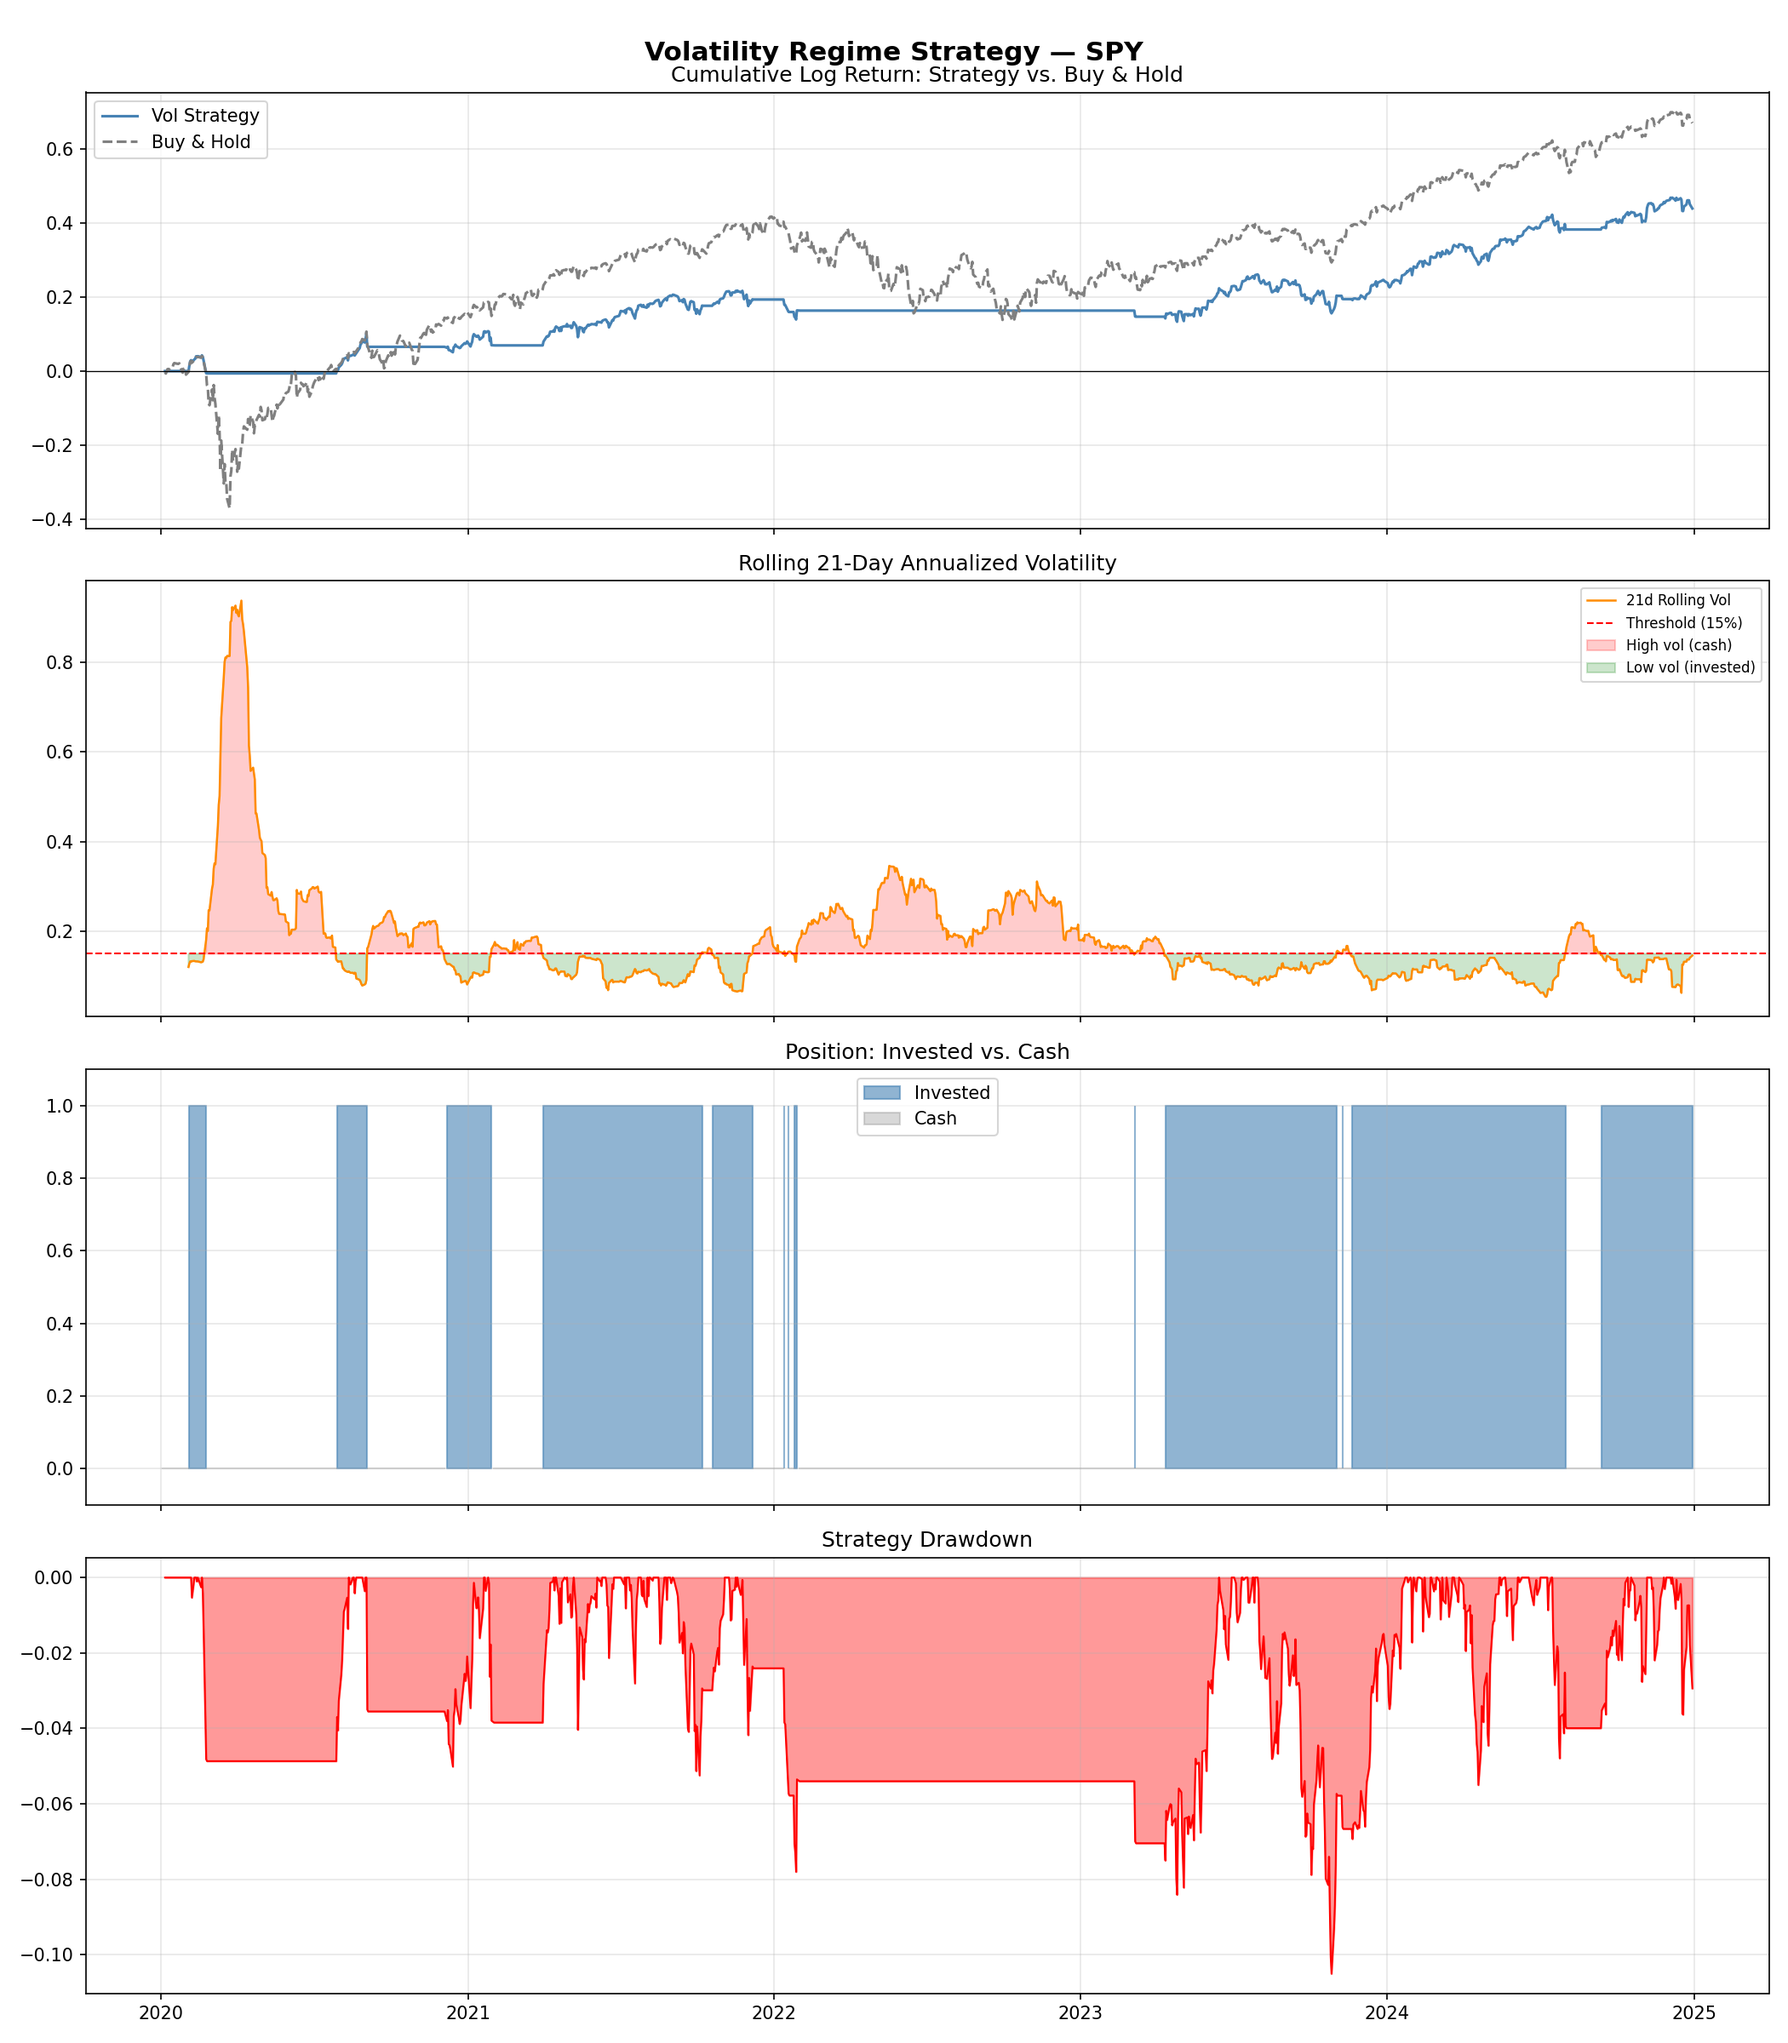
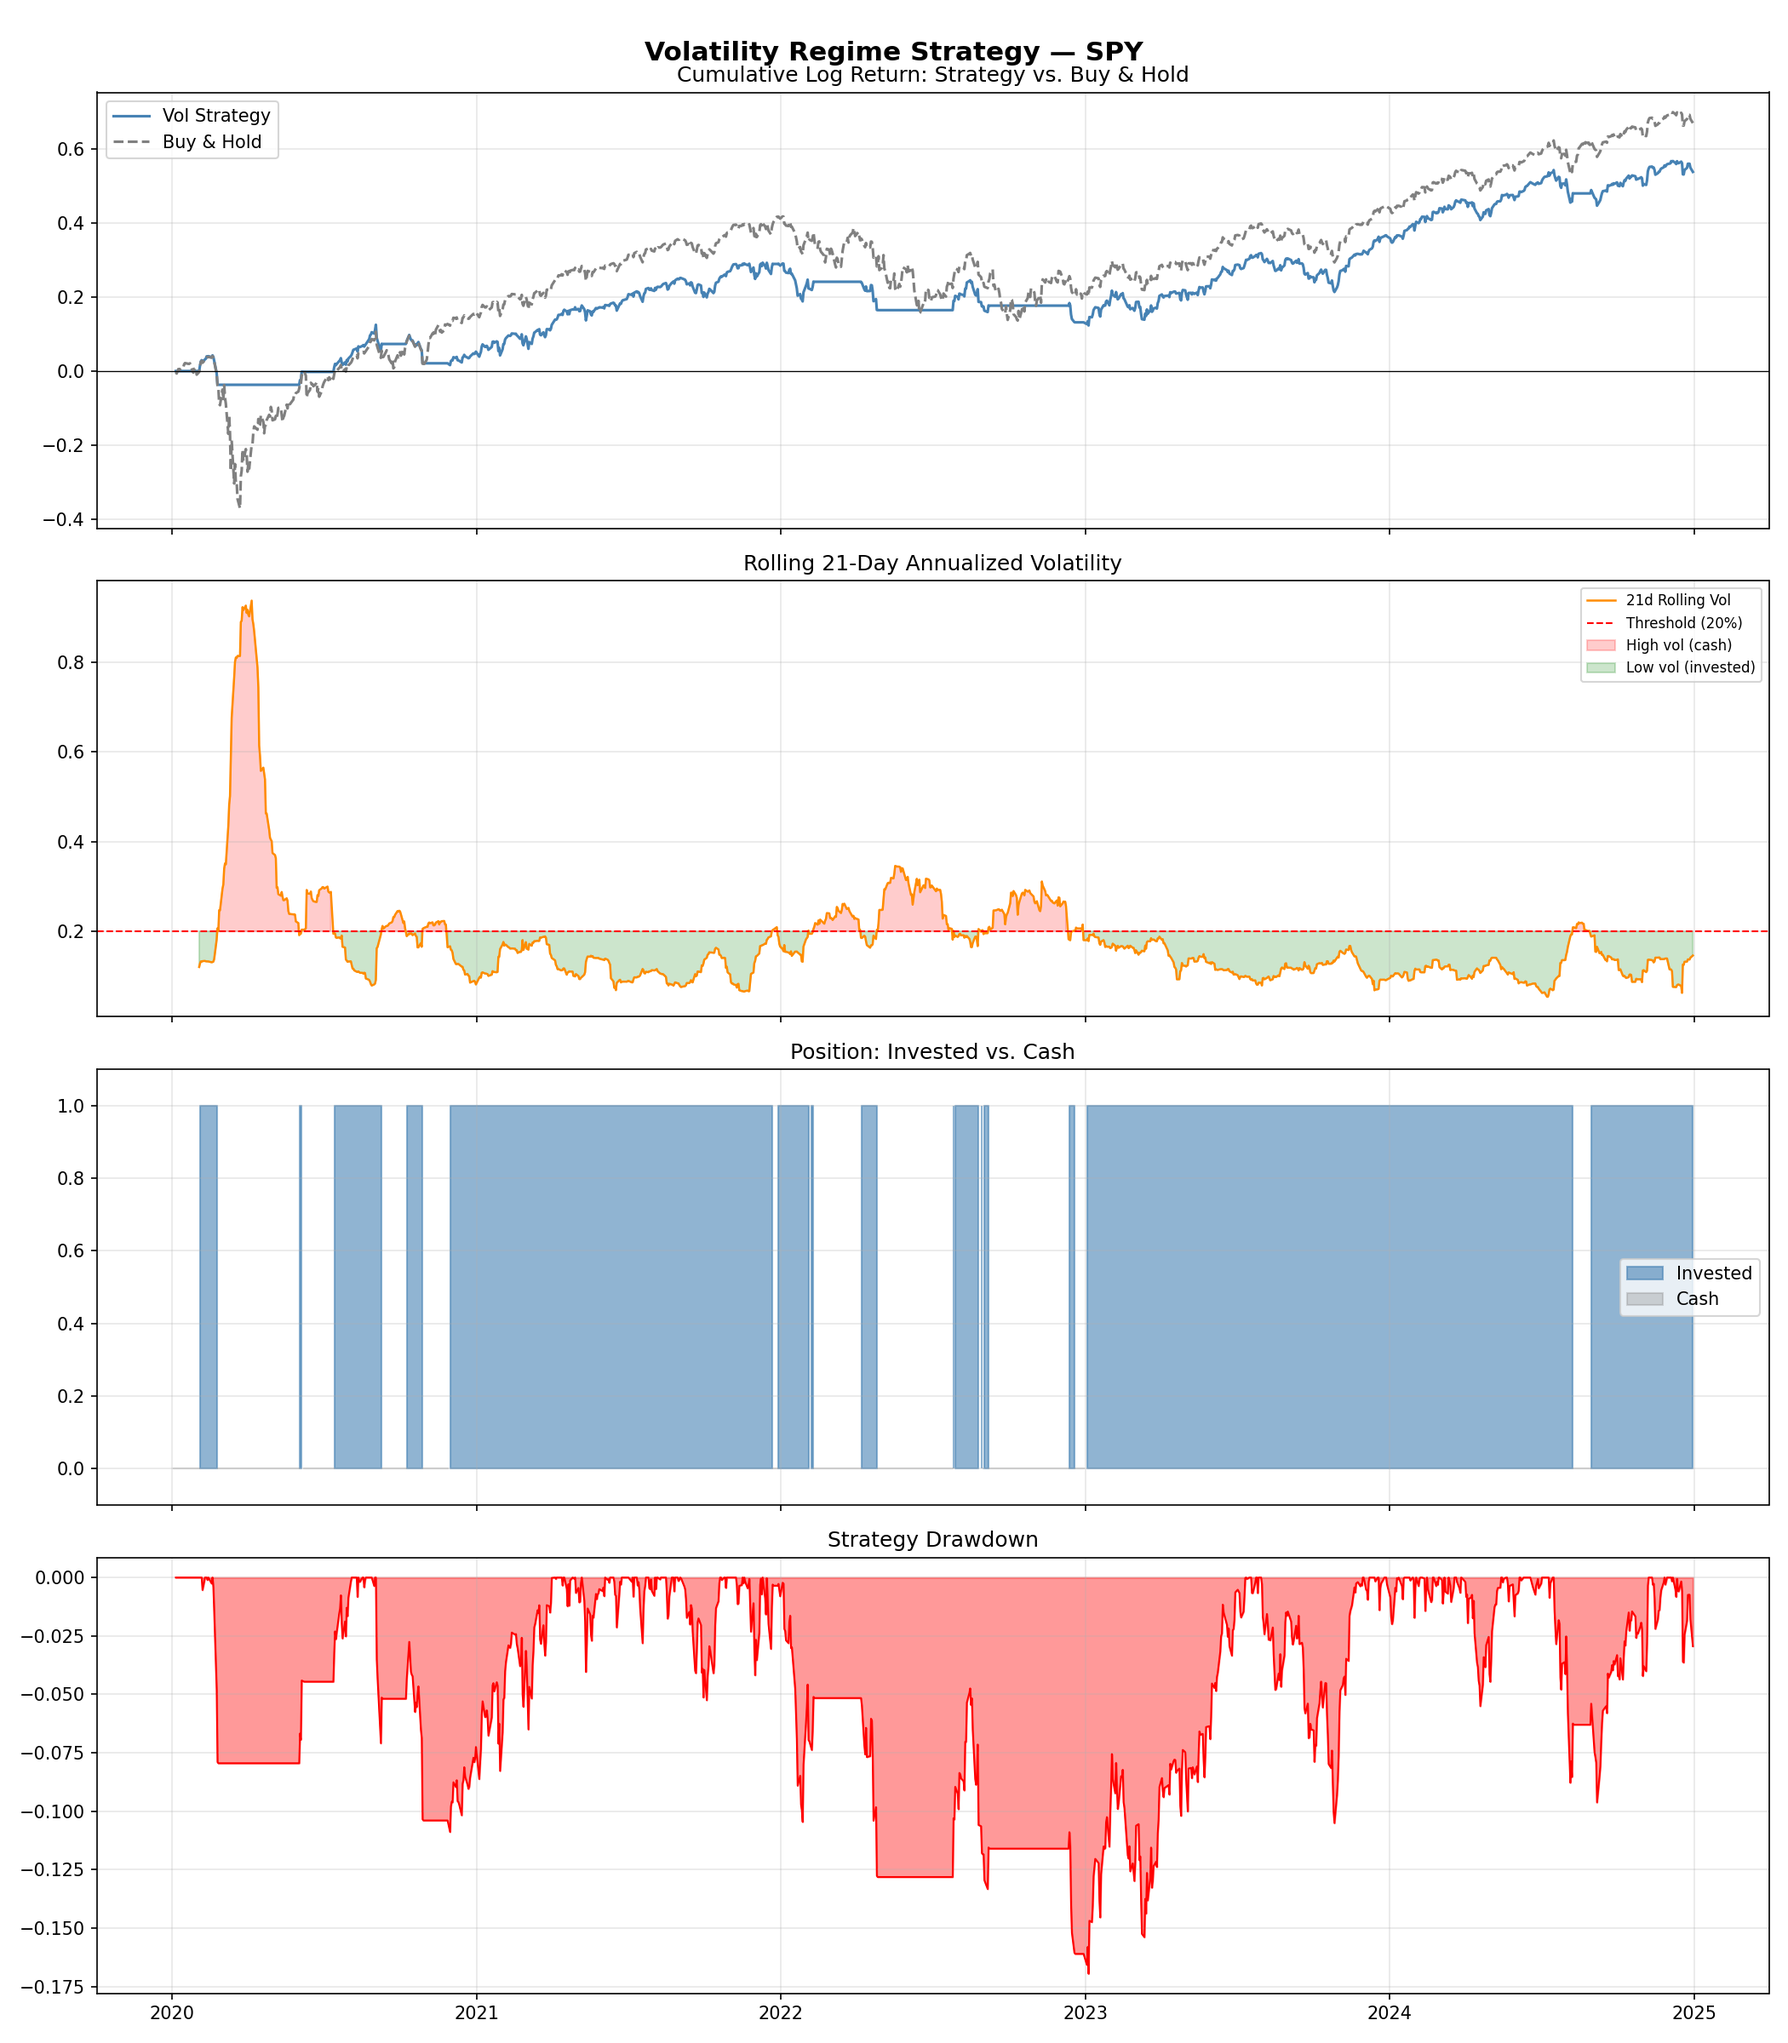
Day 4: confirmed vol strategy holds post-COVID — Sharpe 1.04 excluding 2020

diff --git a/vol_strategy.py b/vol_strategy.py
@@ -211,10 +211,11 @@ if __name__ == "__main__":
     prices      = pd.read_csv("prices.csv",      index_col=0, parse_dates=True)
     log_returns = pd.read_csv("log_returns.csv", index_col=0, parse_dates=True)
 
+
     # Parameters
     TICKER    = "SPY"
     WINDOW    = 21
-    THRESHOLD = 0.15
+    THRESHOLD = 0.20
     COST_BPS  = 5.0
 
     print(f"\nRunning volatility regime strategy on {TICKER}")
